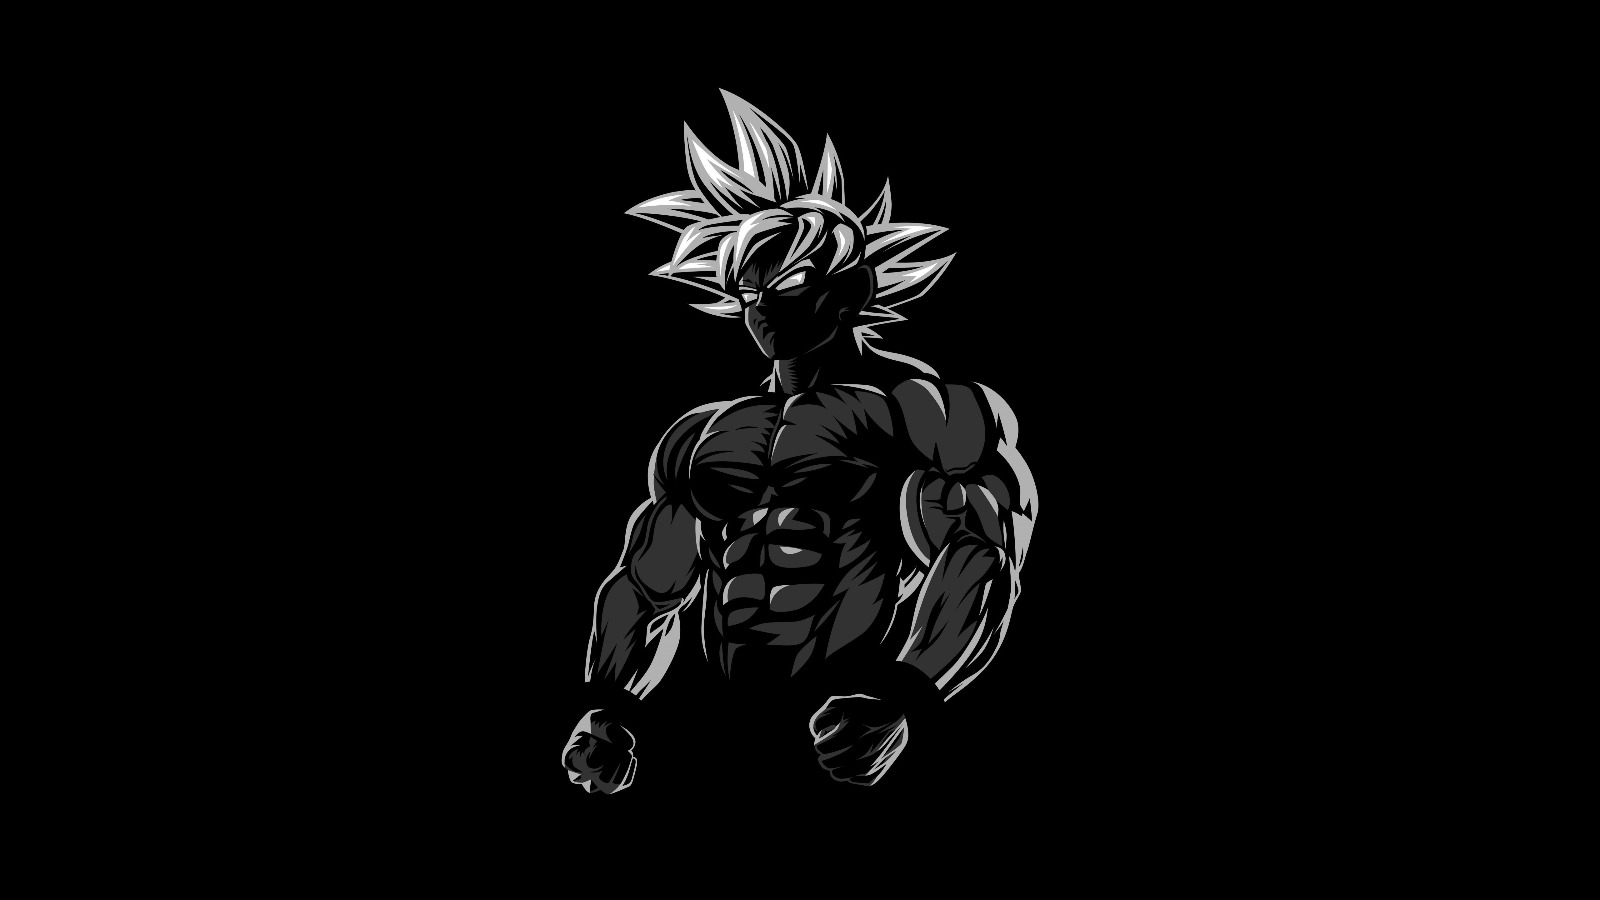
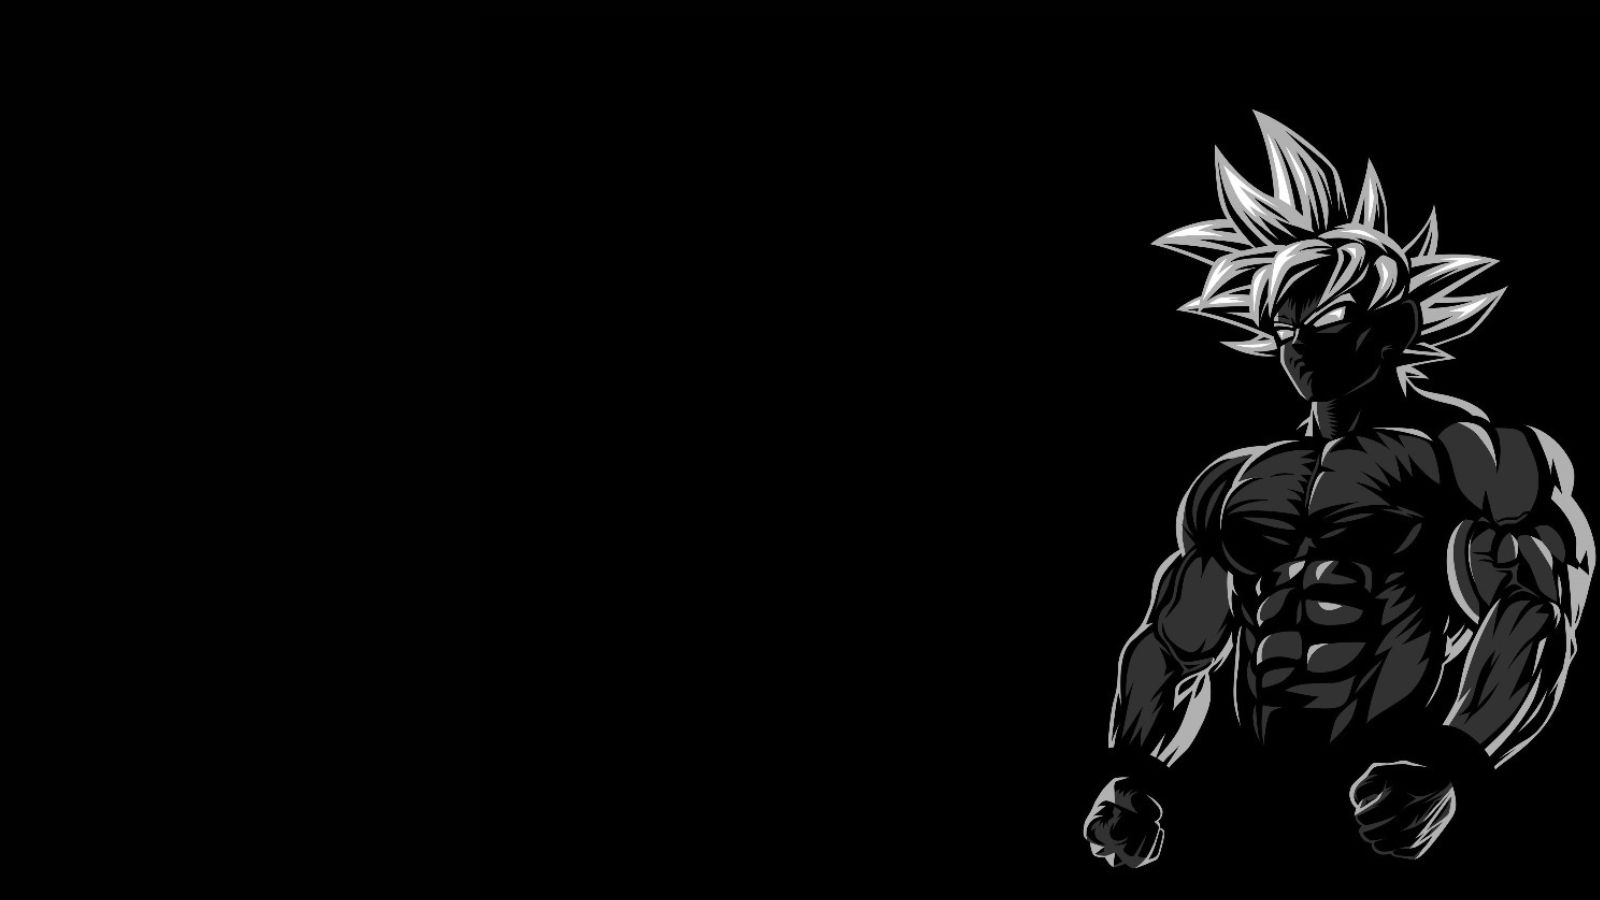
Pushkar & Harshit - SaiyanFit

diff --git a/pages/styles.css b/pages/styles.css
@@ -15,7 +15,7 @@ body {
     display: flex;
     place-content: center flex-start;
     align-items: center;
-    /* background-image: url("../assets/eklavya-logo.png"); */
+    background-image: url("../assets/gokubg.jpg");
     height: 100%;
 
     background-position: center;
@@ -100,6 +100,7 @@ body {
     height: min-content;
     padding: 0px;
     width: min-content;
+    margin-left: -26%;
 }
 .prompt-container-age{
     
@@ -113,7 +114,7 @@ body {
     padding: 0px;
     width: min-content;
     margin-left: -26%;
-    color:rgb(255, 79, 18);
+    /* color:rgb(255, 79, 18); */
     
 }
 .prompt-container-weight{
@@ -230,6 +231,42 @@ body {
     float: none;
     
 }
+.prompt-box2{
+    border-bottom-width: 2px;
+    border-color: rgb(0, 0, 0);
+    border-left-width: 2px;
+    border-right-width: 2px;
+    border-style: solid;
+    border-top-width: 2px;
+    place-content: flex-start;
+    align-items: flex-start;
+    background-color: rgba(255, 255, 255, 0.209);
+    border-radius: 0px;
+    display: inline-block;
+    flex: 0 0 auto;
+    flex-flow: column nowrap;
+    gap: 10px;
+    height: 12px;
+    overflow: hidden;
+    padding: 12px;
+    position: relative;
+    width: 716px;
+    /* max-width: 300px; */
+    will-change: transform;
+    overflow: auto;
+    outline: none;
+    resize: none;
+    font-size: 18px;
+    font-style: normal;
+    letter-spacing: 0px;
+    line-height: 1.6em;
+    text-align: start;
+    color: rgba(0, 0, 0, 0.75);
+    text-decoration: none;
+    text-transform: none;
+    float: none;
+}
+
 .prompt-box {
     border-bottom-width: 2px;
     border-color: rgb(0, 0, 0);

diff --git a/pages/index.js b/pages/index.js
@@ -192,8 +192,8 @@ const Home = () => {
 
           <div>
             <label htmlFor="user-input">My Health Goals:</label>
-            <textarea
-              className="prompt-box"
+            <input
+              className="prompt-box2"
               id="user-input"
               placeholder="e.g. I want to lose 2kg"
               value={userInput}
